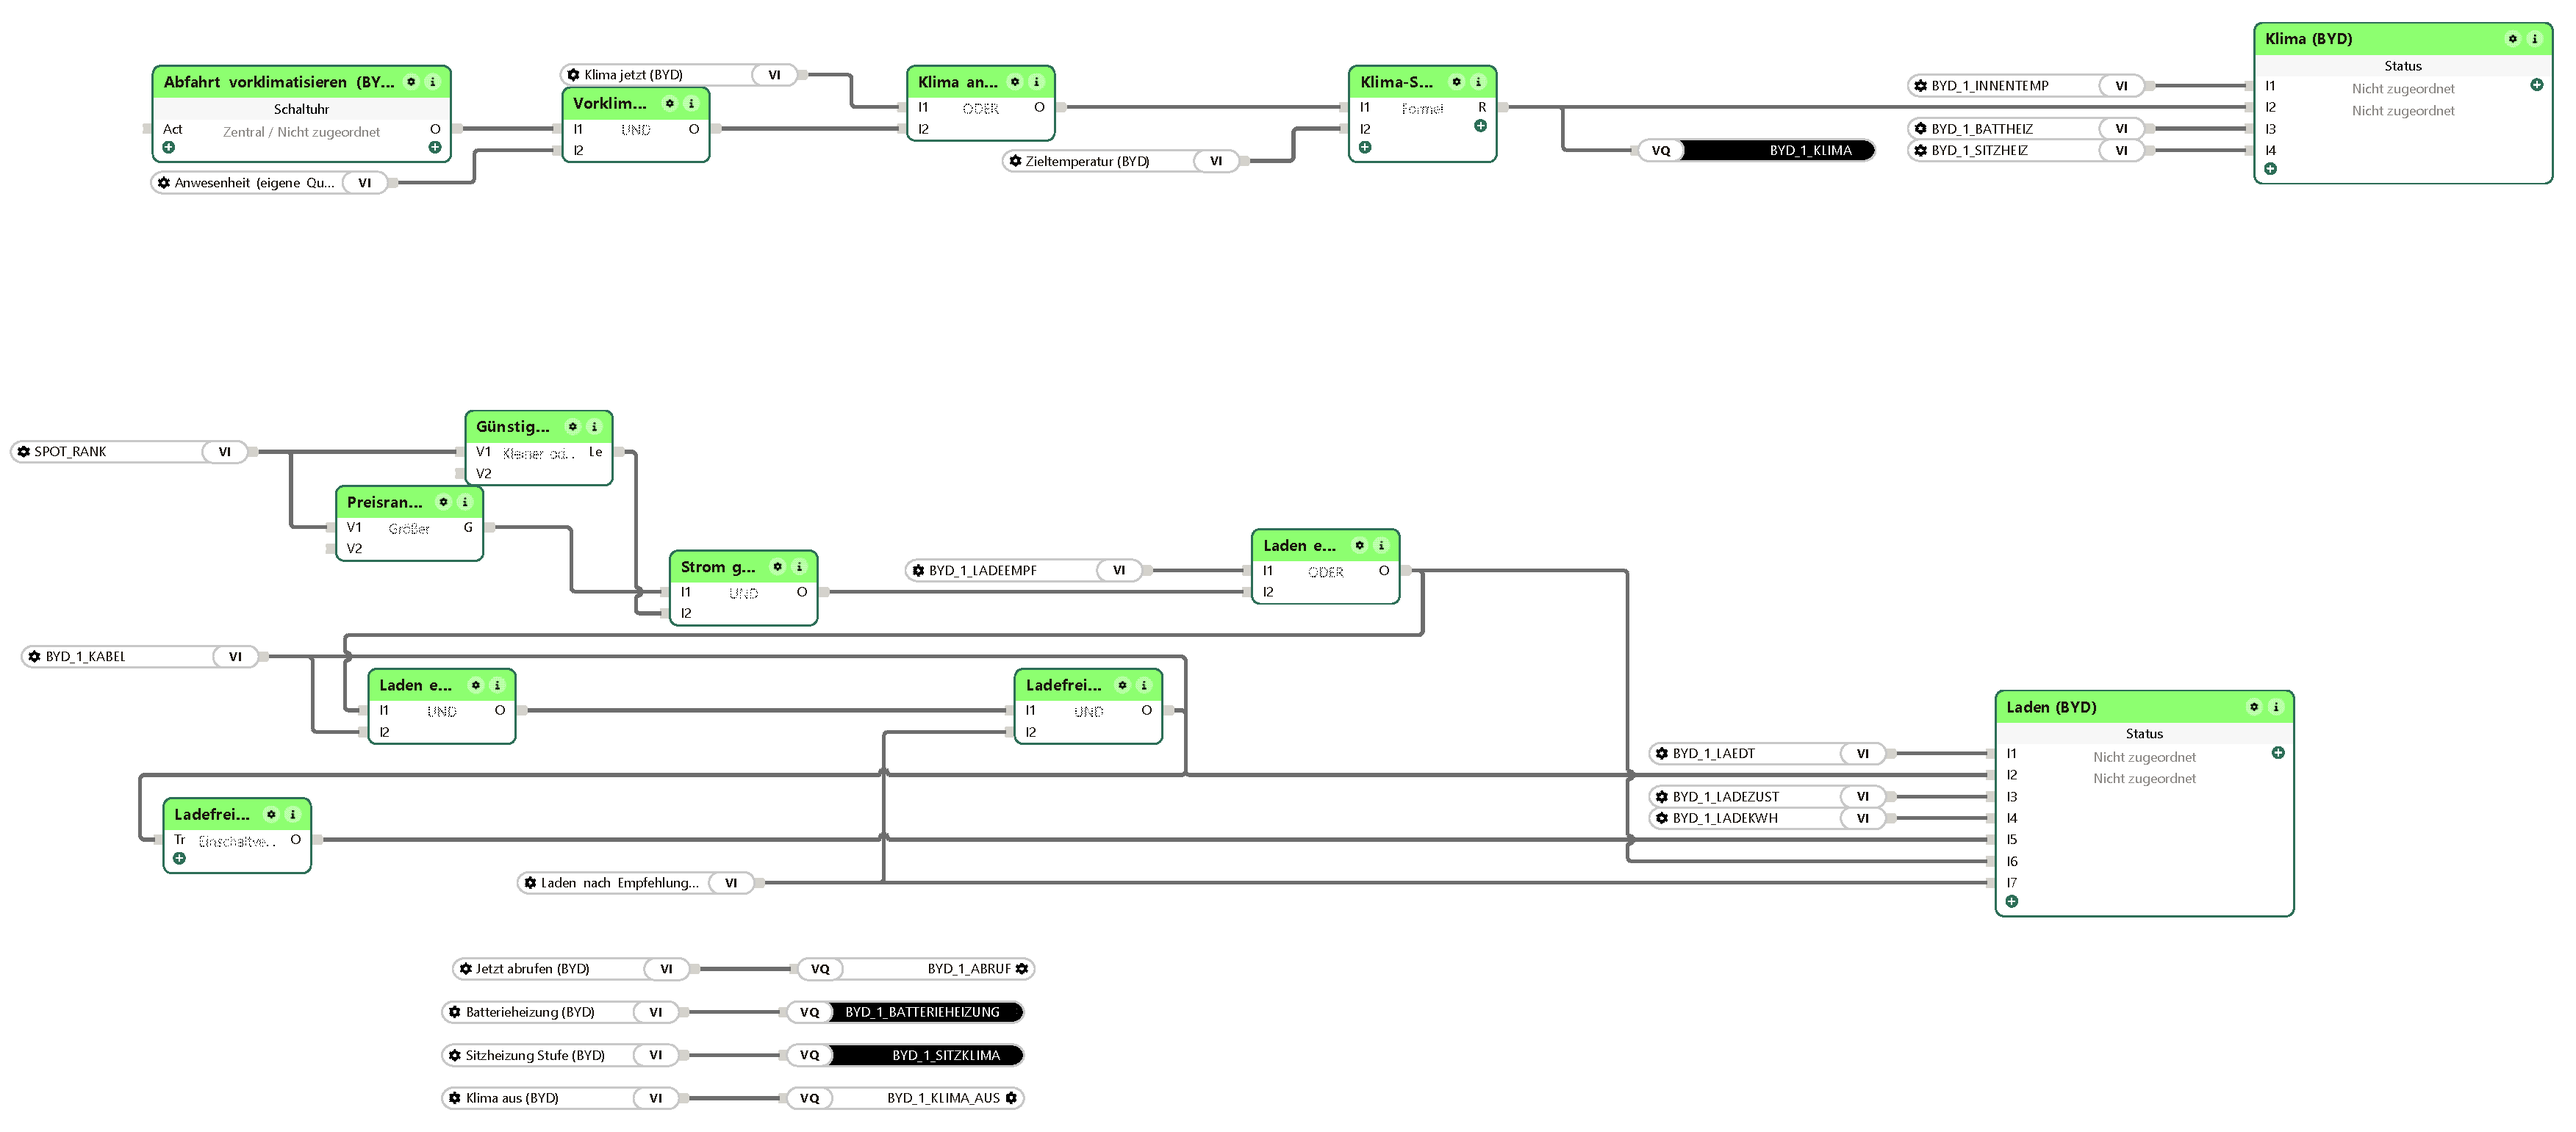
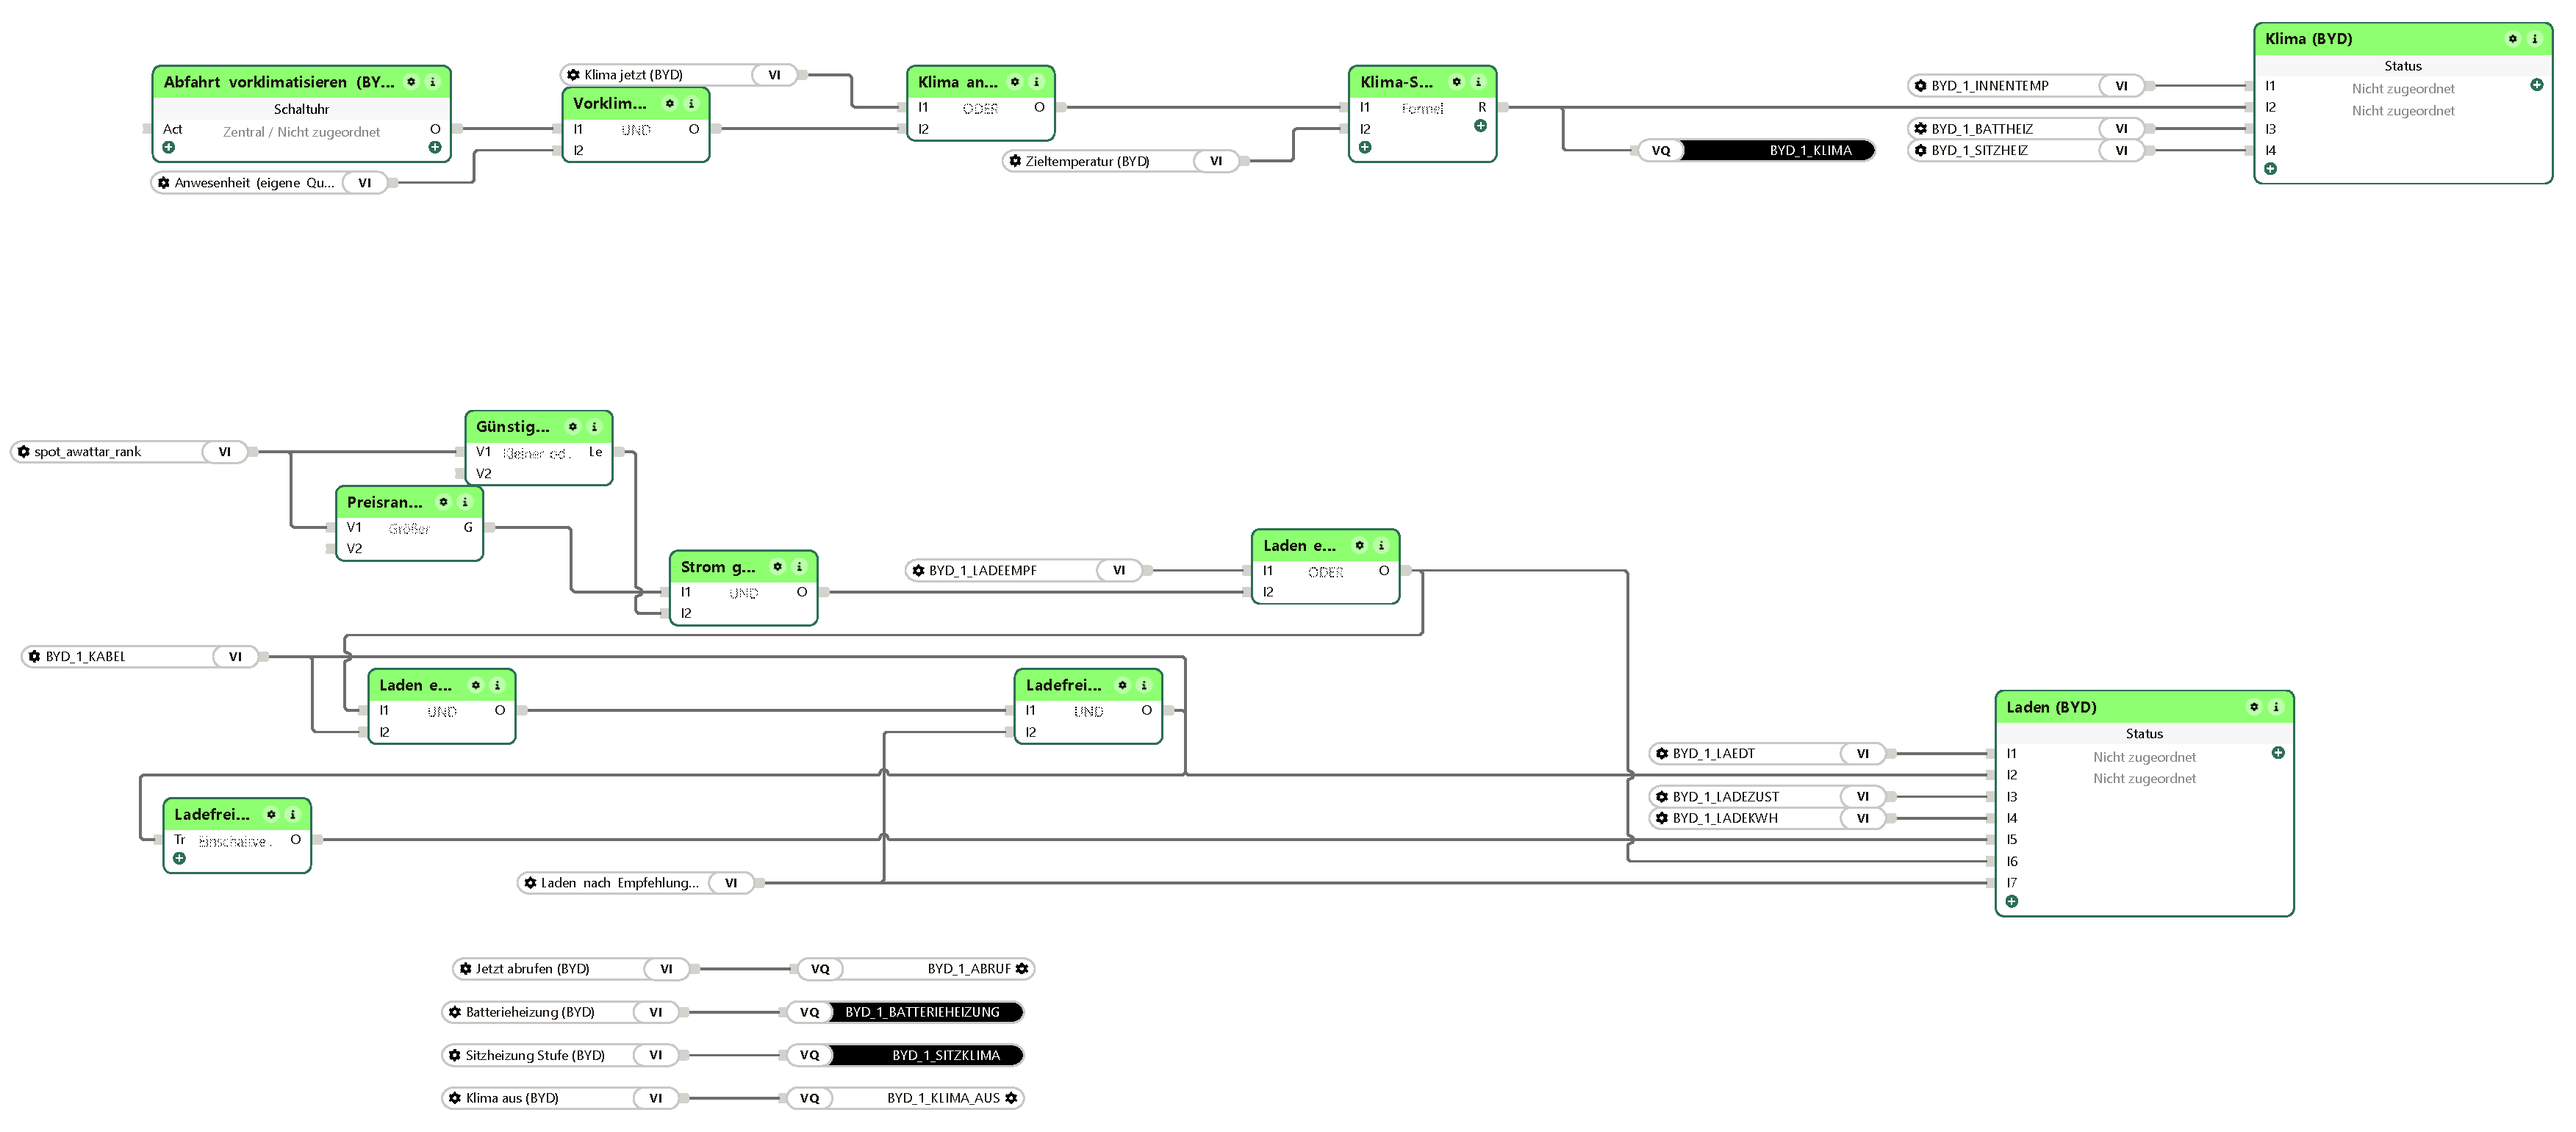
BYD-Autos 0.9.27: BYD Autos 0.9.27: Spotpreis-Rang als Virtueller Eingang (MQTT, aWATTar 1.2.38)
Textnachzug zum Musterprojekt, Reiter **Einbindung in Loxone**, Seite „BYD Autos Laden und Klima“: Spotpreis aWATTar liefert die
Werte jetzt über MQTT. Nr. 6 ist deshalb ein Virtueller Eingang `spot_awattar_rank` (bisher Virtueller HTTP-Eingang-Befehl
`SPOT_RANK` aus der Vorlage „Spotpreis aWATTar“): Virtuellen Eingang mit dem Namen aus der Namenstabelle im Reiter ‚Einbindung in Loxone‘ des Plugins Spotpreis aWATTar (ab 1.2.38) anlegen.
Kasten, Hinweise und Bild der Seite sind nachgezogen. Das Plugin selbst und seine Vorlagen sind unverändert.

diff --git a/README.md b/README.md
@@ -1,6 +1,6 @@
 # LoxBerry-Plugin: BYD Autos
 
-Version 0.9.26
+Version 0.9.27
 
 Bindet **Fahrzeuge von BYD** über das BYD-Konto an Loxone an: Ladezustand,
 Kilometerstand, Reichweite, Ladezustand des Steckers, Restladezeit,
@@ -40,6 +40,13 @@ schreibenden Befehl.
 > gesperrt, und deshalb trägt die Feldtabelle im Reiter *Einbindung in Loxone*
 > eine Spalte **Herkunft**. Ein Feld, das niemand gemessen hat, darf nicht
 > aussehen wie eines, das jemand gemessen hat.
+
+## Neu in 0.9.27
+
+Textnachzug zum Musterprojekt, Reiter **Einbindung in Loxone**, Seite „BYD Autos Laden und Klima“: Spotpreis aWATTar liefert die
+Werte jetzt über MQTT. Nr. 6 ist deshalb ein Virtueller Eingang `spot_awattar_rank` (bisher Virtueller HTTP-Eingang-Befehl
+`SPOT_RANK` aus der Vorlage „Spotpreis aWATTar“): Virtuellen Eingang mit dem Namen aus der Namenstabelle im Reiter ‚Einbindung in Loxone‘ des Plugins Spotpreis aWATTar (ab 1.2.38) anlegen.
+Kasten, Hinweise und Bild der Seite sind nachgezogen. Das Plugin selbst und seine Vorlagen sind unverändert.
 
 ## Neu in 0.9.26
 
